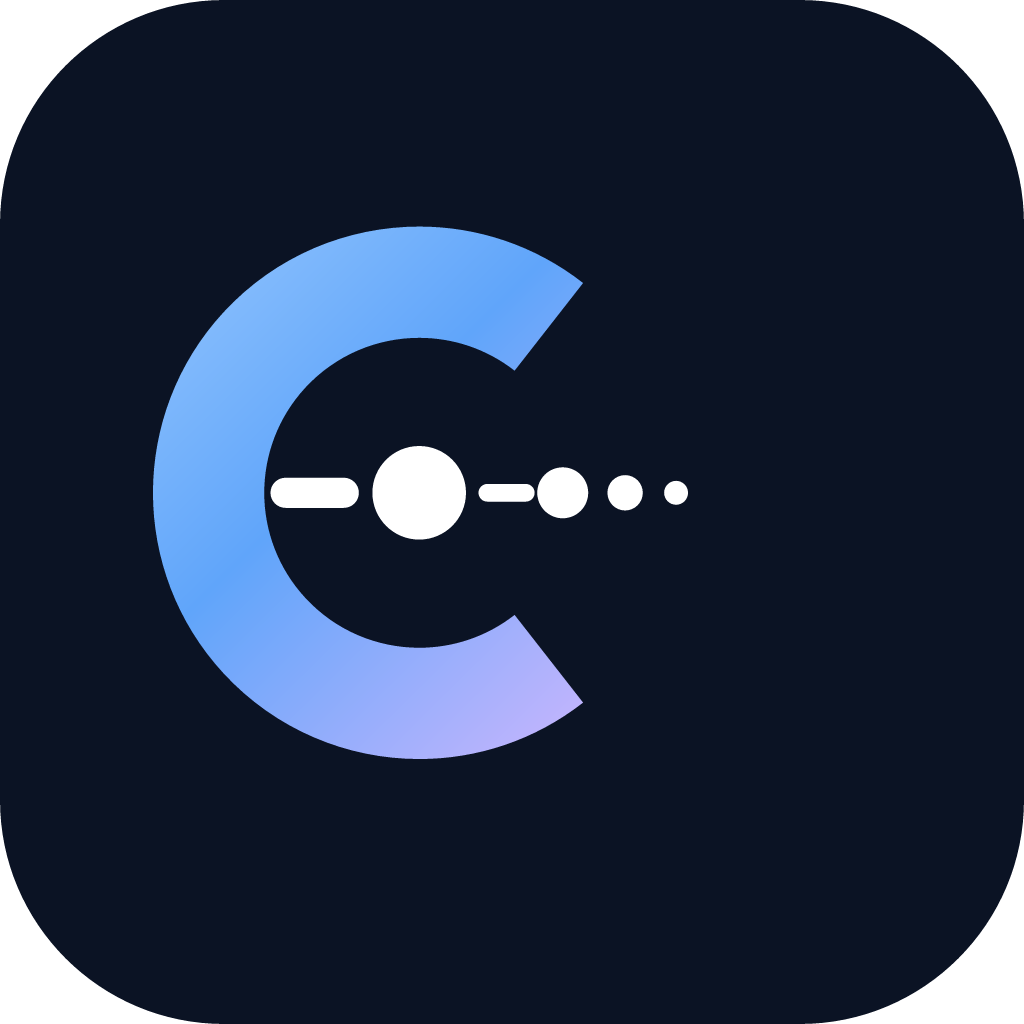
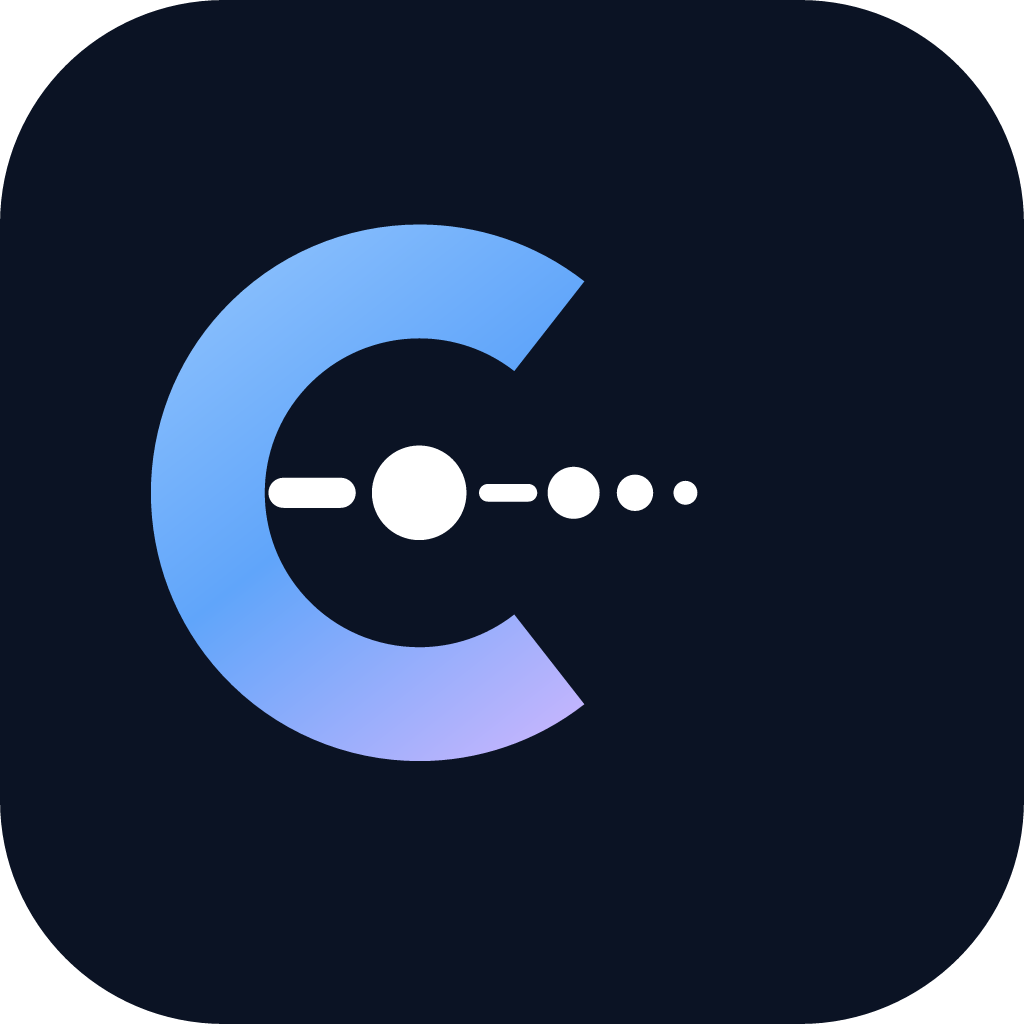
Freeze Brand V1.0 assets to the locked Identity Board.
Regenerate official lockups/icons from the approved artwork, mark guidelines as frozen, and fix Next Image aspect handling for logo SVGs.

diff --git a/components/brand/logo.tsx b/components/brand/logo.tsx
@@ -100,8 +100,8 @@ export function Logo({
       alt={withTagline ? `${BRAND_NAME} — ${BRAND_TAGLINE}` : BRAND_NAME}
       width={width}
       height={height}
-      className="h-auto w-auto max-h-full shrink-0 object-contain"
-      style={{ height: height, width: "auto" }}
+      className="max-h-full shrink-0 object-contain"
+      style={{ height, width: "auto" }}
       priority={priority}
       unoptimized
     />
@@ -127,14 +127,16 @@ export function LogoIcon({
   const px = typeof size === "number" ? size : iconPx[size];
   const src =
     tone === "light" ? BRAND_ASSETS.logoLight : BRAND_ASSETS.logoIcon;
+  const width = Math.round((px * 74) / 64);
 
   return (
     <Image
       src={src}
       alt={BRAND_NAME}
-      width={px}
+      width={width}
       height={px}
       className={cn("shrink-0 object-contain", className)}
+      style={{ height: px, width: "auto" }}
       priority={priority}
       unoptimized
     />
@@ -172,7 +174,7 @@ export function Wordmark({
       alt={showTagline ? `${BRAND_NAME} — ${BRAND_TAGLINE}` : BRAND_NAME}
       width={width}
       height={height}
-      className={cn("h-auto w-auto shrink-0 object-contain", className)}
+      className={cn("shrink-0 object-contain", className)}
       style={{ height, width: "auto" }}
       priority={priority}
       unoptimized

diff --git a/docs/BRAND_GUIDELINES.md b/docs/BRAND_GUIDELINES.md
@@ -1,17 +1,18 @@
 # Chasum Brand Guidelines
 
-**Status:** Brand V1.0 — Official  
-**Source of truth:** Approved Chasum Brand Identity Board (attached / design system).
+**Status:** Brand V1.0 — FINAL / FROZEN  
+**Source of truth:** Official Chasum Brand Identity Board.
 
-Do not redesign, reinterpret, substitute fonts, or change proportions.
+Do not redesign, reinterpret, substitute fonts, or change proportions.  
+Future brand changes require explicit product-owner approval.
 
 ---
 
-## Brand meaning
+## Meaning
 
-- The **C** represents Chasum, Connection, and Commitment.
-- The **three dots** represent Workflow, Intelligence, and Growth.
-- The **Spark** represents intelligence and AI-powered features only.
+- **C** — Chasum, Connection, Commitment  
+- **Three dots** — Workflow, Intelligence, Growth  
+- **Spark** — AI intelligence only (never a logo substitute)
 
 Tagline: **AI Business Operating System**
 
@@ -22,15 +23,14 @@ Tagline: **AI Business Operating System**
 | File | Use |
 |------|-----|
 | `logo-full.svg` | C Mark + wordmark + tagline |
-| `logo-horizontal.svg` | C Mark + wordmark (nav / product) |
+| `logo-horizontal.svg` | C Mark + wordmark |
 | `logo-stacked.svg` | Stacked lockup |
 | `wordmark.svg` | CHASUM (custom A + AI dot) |
-| `wordmark-tagline.svg` | Wordmark + tagline |
 | `logo-icon.svg` | C Mark |
-| `spark.svg` | AI Spark (AI features only) |
+| `spark.svg` | AI Spark |
 | `favicon.svg` | Favicon |
 | `apple-touch-icon.png` | 180×180 |
-| `manifest-icon.png` | 512×512 PWA |
+| `manifest-icon.png` | 512×512 |
 | `app-icon-1024.png` | 1024×1024 |
 | `*-light.svg` | Light ink on dark surfaces |
 
@@ -38,16 +38,16 @@ Constants: `lib/brand/assets.ts`
 
 ---
 
-## React components
+## React
 
-| Component | Default asset |
-|-----------|----------------|
-| `<Logo />` | `logo-horizontal.svg` (`withTagline` → `logo-full`) |
+| Component | Asset |
+|-----------|--------|
+| `<Logo />` | horizontal (`withTagline` → full) |
 | `<LogoIcon />` | `logo-icon.svg` |
 | `<Wordmark />` | `wordmark.svg` |
-| `<Spark />` | `spark.svg` — AI only |
+| `<Spark />` | `spark.svg` |
 
-Never recreate the wordmark with CSS/Inter text in feature code.
+Import only from `@/components/brand/*`. Never recreate the wordmark with CSS text.
 
 ---
 
@@ -66,8 +66,8 @@ Never recreate the wordmark with CSS/Inter text in feature code.
 
 ## Rules
 
-- Clear space ≥ height of the C Mark
-- Digital minimum height: 32px
-- Do not rotate, stretch, recolor, or add effects
-- Spark only for AI-powered features
-- Dark Navy sidebar uses light lockups (`tone="light"`)
+- Clear space ≥ C Mark unit  
+- Digital min height 32px · Print 12mm  
+- Do not rotate, stretch, recolor, or add effects  
+- Spark only for AI features  
+- Dark Navy sidebar uses `Logo tone="light"`

diff --git a/docs/CHANGELOG.md b/docs/CHANGELOG.md
@@ -9,14 +9,13 @@ Versioning follows [Semantic Versioning](https://semver.org/spec/v2.0.0.html).
 
 ## [Unreleased]
 
-### Changed (Brand V1.0 — Official)
+### Changed (Brand V1.0 — FINAL / FROZEN)
 
-- Official Brand Identity Board locked as single source of truth
-- Production SVG lockups: `logo-full`, `logo-horizontal`, `logo-stacked`, `wordmark`, `logo-icon`, `spark`
-- C Mark signal, custom A + gradient AI dot, Spark with board accent dots
-- App icons on Dark Navy; dashboard sidebar Dark Navy + light lockup
-- Landing, auth, emails, metadata/PWA use official assets only (no temporary logos)
-- Board palette + Inter UI
+- Official Brand Identity Board locked as sole visual source of truth
+- Production assets: `logo-full`, `logo-horizontal`, `logo-stacked`, `wordmark`, `logo-icon`, `spark`, favicon, apple/manifest/app icons
+- C Mark (center node + trail), custom open A + Primary AI dot, Spark with accent dots
+- App icons on Dark Navy `#0B1324`; dashboard sidebar Dark Navy + light lockup
+- Landing, auth, emails, loaders, metadata, PWA use official assets only
 
 ### Changed (Sprint 2 — Reception Workspace Excellence)
 